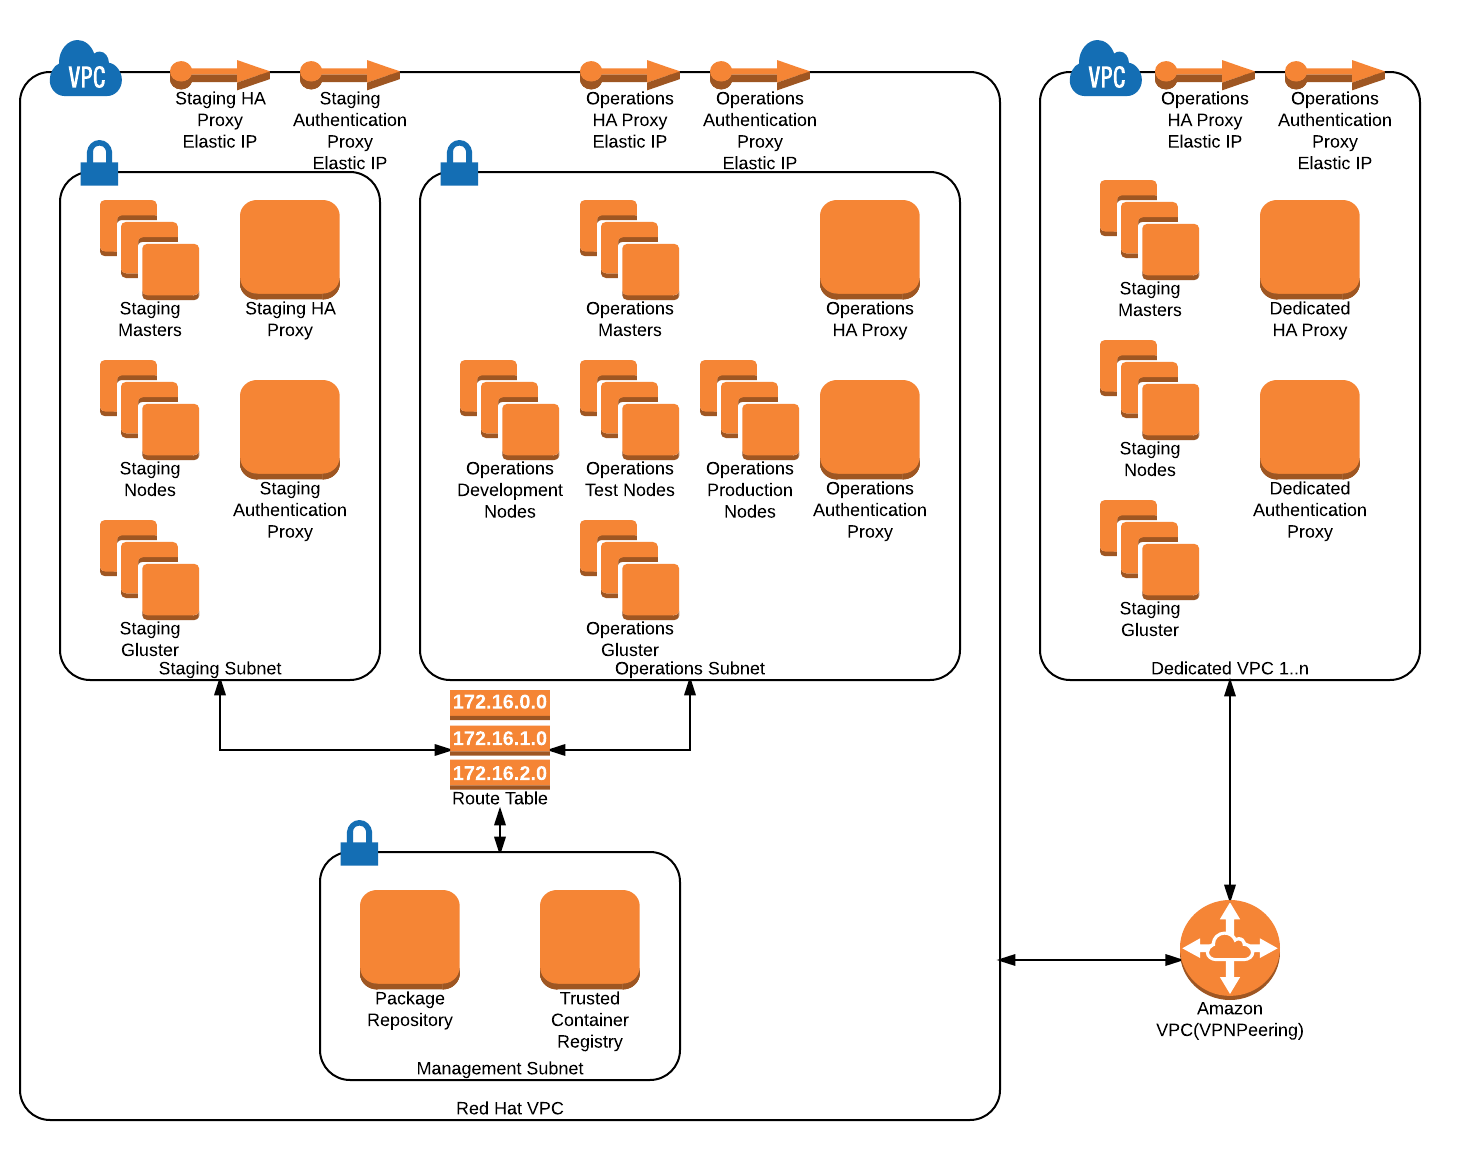
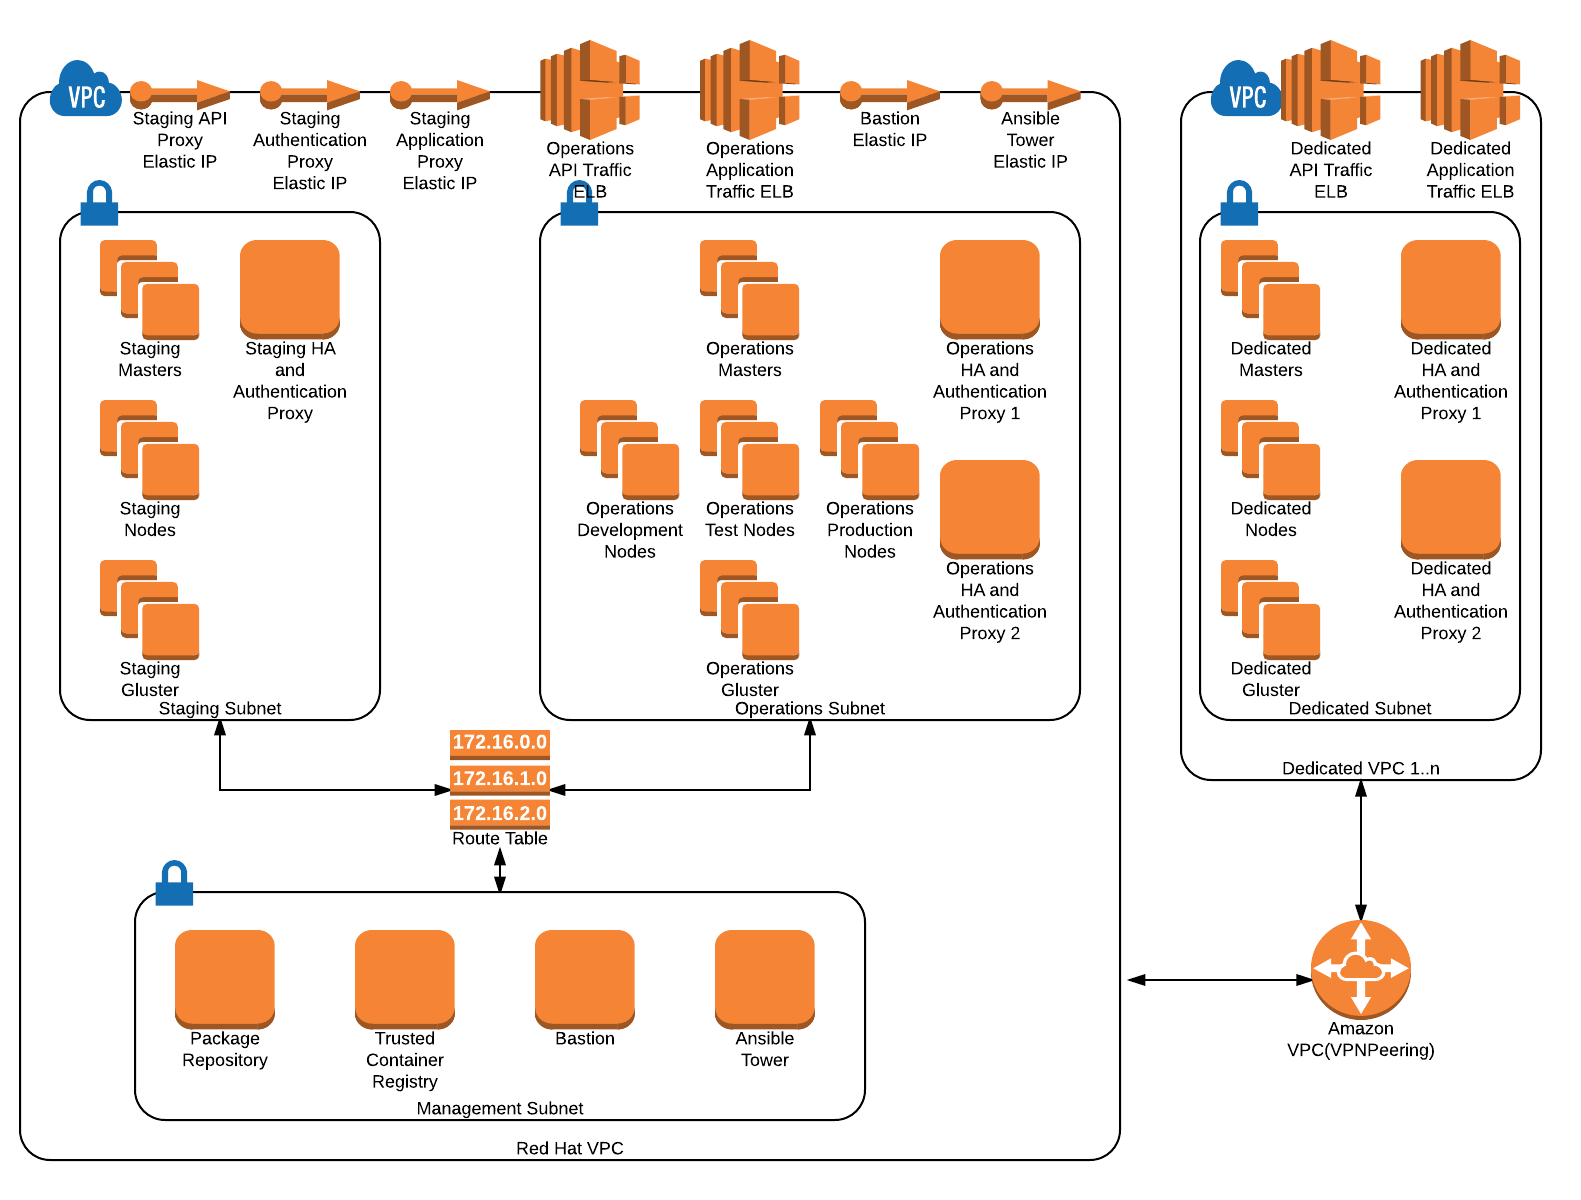
Added some platform stuff

diff --git a/reference_architecture.rst b/reference_architecture.rst
@@ -30,18 +30,19 @@ As stated prviously, the IaaS in this architecture is AWS.  Red Hat's OCP is the
 
 Infrastructure View
 -------------------
-Definition
+The infrastructure view describes the OCP components at the infrastructure level.  These components are necessary to serve OCP in AWS and achieving FISMA high.
+
+IaaS Definition - NIST 800-145
 ~~~~~~~~~~
-The NIST 800-145 defines the following as an Infrastructure as a Service:
   The capability provided to the consumer is to provision processing, storage, networks, and other fundamental computing resources where the consumer is able to deploy and run arbitrary software, which can include operating systems and applications. The consumer does not manage or control the underlying cloud infrastructure but has control over operating systems, storage, and deployed applications; and possibly limited control of select networking components (e.g., host firewalls).
 
 Description
 ~~~~~~~~~~~
 AWS provides this capability.  Amazon provides the underlying hardware infastructure that supports the self-service provisioning into the cloud of what has traditionaly been based in hardware.  This includes, but is not limited to compute, storage, and networking services.
 
-Actors
+Stakeholders
 ~~~~~~
-Platform administrators require AWS console access and the ability to deploy and/or configure the following AWS components.
+**OCP administrators** require AWS console access and the ability to deploy and/or configure the following AWS components.
 
  - VPC
  - Elastic IP
@@ -49,73 +50,143 @@ Platform administrators require AWS console access and the ability to deploy and
  - VPC Peering
  - Route Tables
 
+**Application developers** do not have a role at the infrastructure level.
+
+**Application consumers** do not have a role at the infrastructure level.
+
 Diagram
 ~~~~~~~
 The following diagram illustrates the high level deployment of OCP in AWS and the necessary AWS components to support OCP.
 |Infrastructure View|
 
+Components
+~~~~~~~~~~
 The following table describes each AWS component and relates it to the implementation in the OCP reference architecture.
++---------------+---------------------------------------------------------+------------------------+
+| AWS Component | Description                                             |  OCP Component         |
++===============+=========================================================+========================+
+| VPC           | A logically isolated section of AWS in which resources  | Red Hat VPC            |
+|               | are connected via a virtual networking environment.     +------------------------+
+|               |                                                         | 1..n Dedicated VPC's   |
++---------------+---------------------------------------------------------+------------------------+
+| Subnet        | Virtually isolated network used on which traffic        | Management Subnet      |
+|               | is isolatedbecause isolation makes for great neighbors. +------------------------+
+|               |                                                         | Staging Subnet         |
+|               |                                                         +------------------------+
+|               |                                                         | Operations Subnet      |
+|               |                                                         +------------------------+
+|               |                                                         | Dedicated Subnet       |
++---------------+---------------------------------------------------------+------------------------+
+| EC2 Compute   | A scalable compute capacity in AWS.  Compute instances  | All OCP Platform       |
+| Instance      | are instantiated from cloud images with pre-installed   | components.            |
+|               | operating systems, for example Red Hat Enterprise Linux.|                        |
++---------------+---------------------------------------------------------+------------------------+
+| Route Table   | A route table defines rules as to how network traffic   | Red Hat VPC            |
+|               | in a VPC is routed internally.                          |                        |
++---------------+---------------------------------------------------------+------------------------+
+| Elastic IP    | An Elastic IP is associated with an EC2 Instance and is | Staging HA Proxy       |
+|               | publically reacheable.                                  +------------------------+
+|               |                                                         | Staging Authentication |
+|               |                                                         +------------------------+
+|               |                                                         | Staging App. Traffic   |
+|               |                                                         +------------------------+
+|               |                                                         | Bastion                |
+|               |                                                         +------------------------+
+|               |                                                         | Ansible Tower          |
++---------------+---------------------------------------------------------+------------------------+
+| VPC Peering   | A VPC peering connection is a networking connection     | Between the Red Hat    |
+|               | between two VPCs that enables traffic to be routed      | VPC and any Dedicated  |
+|               | between them using private IP addresses.                | VPC                    |
++---------------+---------------------------------------------------------+------------------------+
+| Elastic Load  | An ELB automatically distributes traffic among EC2      | Operations API         |
+| Balancer      | instances.                                              +------------------------+
+|               |                                                         | Operations Application |
+|               |                                                         +------------------------+
+|               |                                                         | Dedicated API          |
+|               |                                                         +------------------------+
+|               |                                                         | Dedicated Application  |
++---------------+---------------------------------------------------------+------------------------+
 
-+---------------+---------------------------------------------------------+----------------------+
-| AWS Component | Description                                             |  OCP Component       |
-+===============+=========================================================+======================+
-| VPC           | A logically isolated section of AWS in which resources  | Red Hat VPC          |
-|               | are connected via a virtual networking environment.     +----------------------+
-|               |                                                         | 1..n Dedicated VPC's |
-+---------------+---------------------------------------------------------+----------------------+
-| Subnet        | Virtually isolated network used on which traffic        | Management Subnet    |
-|               | is isolatedbecause isolation makes for great neighbors. +----------------------+
-|               |                                                         | Staging Subnet       |
-|               |                                                         +----------------------+
-|               |                                                         | Operations Subnet    |
-|               |                                                         +----------------------+
-|               |                                                         | Dedicated Subnet     |
-+---------------+---------------------------------------------------------+----------------------+
-| EC2 Compute   | A scalable compute capacity in AWS.  Compute instances  | All OCP Platform     |
-| Instance      | are instantiated from cloud images with pre-installed   | components.          |
-|               | operating systems, for example Red Hat Enterprise Linux.|                      |
-+---------------+---------------------------------------------------------+----------------------+
-| Route Table   | A route table defines rules as to how network traffic   | Red Hat VPC          |
-|               | in a VPC is routed internally.                          |                      |
-+---------------+---------------------------------------------------------+----------------------+
-| Elastic IP    | An Elastic IP is associated with an EC2 Instance and is | Staging HA Proxy     |
-|               | publically reacheable.                                  +----------------------+
-|               |                                                         | Staging Auth Proxy   |
-|               |                                                         +----------------------+
-|               |                                                         | Operations HA   Proxy|
-|               |                                                         +----------------------+
-|               |                                                         | Operations Auth Proxy|
-|               |                                                         +----------------------+
-|               |                                                         | Dedicated HA Proxy   |
-|               |                                                         +----------------------+
-|               |                                                         | Dedicated Auth Proxy |
-+---------------+---------------------------------------------------------+----------------------+
-| VPC Peering   | A VPC peering connection is a networking connection     | Between the Red Hat  |
-|               | between two VPCs that enables traffic to be routed      | VPC and any Dedicated|
-|               | between them using private IP addresses.                | VPC                  |
-+---------------+---------------------------------------------------------+----------------------+
+Network Architecture
+~~~~~~~~~~~~~~~~~~~~
+The **Staging Subnet** provides an isolated area for platform administrators to apply regular patches and test configuration changes before applying these to the operations cluster.  One cluster of OCP is deployed in this VPC.
 
-Architecture Rational
-~~~~~~~~~~~~~~~~~~~~~
-The **Staging VPC** provides an isolated area for platform administrators to apply regular patches and test configuration changes before applying these to the operations cluster.  One cluster of OCP is deployed in this VPC.
+The **Operations Subnet** contains a single deployment of OpenShift where tenants will deploy applications.  OCP Nodes will be labled and functionally grouped to support development, test, and production deployments of an application.  This is described in detail in the *Platform View*.
 
-The **Operations VPC** contains a single deployment of OpenShift where tenants will deploy applications.  OCP Nodes will be labled and functionally grouped to support development, test, and production deployments of an application.  This is described in detail in the *Platform View*.
-
-The **Management VPC** contains the Trusted Container Repository as well as the Package Repository.  A route table allows the **Managent VPC** to communicate to the **Staging VPC**, **Operations VPC**, and any **Dedicated VPC's**.  However, the latter three VPC's cannot communicate with each other.
+The **Management Subnet** contains the Trusted Container Repository as well as the Package Repository.  A route table allows the **Managent Subnet** to communicate to the **Staging Subnet**, **Operations Subnet**.  The **Staging Subnet** and **Operations Subnet** are not permitted to communicate with each other. A VPC peering connection allows the **Management Subnet** in the **Red Hat VPC** to communicate with any **Dedicated VPC's**.
 
 **Dedicated VPC's** are VPC's that are deployed to support specific isolation needs of a particular tenant.  These may be created and destroyed per organizational needs.
 
+The **bastion host** allows OCP Administrators and only OCP Administrators the ability to access the underlying hosts in each VPC.
+
+**Application Developers** interact with OCP via a command line interface (CLI) and web user interface (WebUI).  An application router, internal to OCP, handles application traffic.  Therefore certain ports in a security group must be exposed on the **Red Hat VPC** to allow ths traffic.  The same is true of any **Dedicated VPC's**.  The following table details this information.
+
++----------+---------------------+-------------------------------------------+
+| VPC Port | VPC/Subnet          | Exposed Component                         |
++==========+=====================+===========================================+
+| 443/TCP  | Red Hat/Operations  | ELB - API Traffic                         |
++          +                     +-------------------------------------------+
+|          |                     | ELB - Application Traffic                 |
++          +---------------------+-------------------------------------------+
+|          | Red Hat/Staging     | Elastic IP - API HA Proxy                 |
++          +                     +-------------------------------------------+
+|          |                     | Elastic IP - Application Traffic          |
++          +---------------------+-------------------------------------------+
+|          | Red Hat/Management  | Elastic IP - Ansible Tower                |
++          +---------------------+-------------------------------------------+
+|          | Dedicated/Dedicated | ELB - API Traffic                         |
++          +                     +-------------------------------------------+
+|          |                     | ELB - Application Traffic                 |
++----------+---------------------+-------------------------------------------+
+| 4444/TCP | Red Hat/Operations  | ELB - API Traffic - Authentication        |
++          +---------------------+-------------------------------------------+
+|          | Red Hat/Staging     | Elastic IP - API Traffic - Authentication |
++          +---------------------+-------------------------------------------+
+|          | Dedicated/Dedicated | ELB - API Traffic - Authentication        |
++----------+---------------------+-------------------------------------------+
+| 22/TCP   | Red Hat/Management  | Elastic IP - SSH Bastion                  |
++----------+---------------------+-------------------------------------------+
+
 Platform View
 -------------
-Definition
+The platform view describes the OCP architecture at the platform level.  This view abastracts out the AWS components and focuses primarily on the functional components of OCP.
+
+PaaS Definition - NIST 800-145
 ~~~~~~~~~~
+  The capability provided to the consumer is to deploy onto the cloud infrastructure consumer-created or acquired applications created using programming languages, libraries, services, and tools supported by the provider.  The consumer does not manage or control the underlying cloud infrastructure including network, servers, operating systems, or storage, but has control over the deployed applications and possibly configuration settings for the application-hosting environment.
+
 Description
 ~~~~~~~~~~~
-Actors
-~~~~~~
+The OpenShift Container Platform provides application developer's the ability to rappidly deploy applications in a variety of application frameworks.
+
+Stakeholders
+~~~~~~~~~~~~
+**OCP Administrators** are responsible for the operations and proper function of the platform.  They have the ability to affect OCP security policies surrounding developer interaction and container function.
+
+**Application Developers** have access to the OCP WebUI and CLI to deploy applications.
+
+**Application Users** do not have a role at the platform level.
+
 Diagram
 ~~~~~~~
-Architecture Rational
+The following diagram details the minimum highly-available configuration of OCP to meet FISMA high at the platform level.
+|Platform View|
+
+Components
+~~~~~~~~~~
++---------------------+-------------------------------------------------------------------------------------------------------------------------------------------------------------------------------------------------------------------------------------------------------------------------------------------------------------------+
+| Component           | Description                                                                                                                                                                                                                                                                                                       |
++---------------------+-------------------------------------------------------------------------------------------------------------------------------------------------------------------------------------------------------------------------------------------------------------------------------------------------------------------+
+| Master              | The OCP Master provides the API and WebUI entry points for Application Developers and OCP administrators. The OCP Master is also responsible for scheduling containers on each node.                                                                                                                              |
++---------------------+-------------------------------------------------------------------------------------------------------------------------------------------------------------------------------------------------------------------------------------------------------------------------------------------------------------------+
+| ETCD                | The ETCD servers are key-value stores used for maintaining information about the state of the OCP cluster.                                                                                                                                                                                                        |
++---------------------+-------------------------------------------------------------------------------------------------------------------------------------------------------------------------------------------------------------------------------------------------------------------------------------------------------------------+
+| Application Node    | The Application Nodes handle executing application containers.                                                                                                                                                                                                                                                    |
++---------------------+-------------------------------------------------------------------------------------------------------------------------------------------------------------------------------------------------------------------------------------------------------------------------------------------------------------------+
+| Infrastructure Node | In an OCP cluster, a containerized HA proxy routes application traffic.  A containerized integrated container registry in OCP is a mechanism in the automated build and deployment flow.  Both the application router and integrated container registry and only these components run on the Infrastructure Node. |
++---------------------+-------------------------------------------------------------------------------------------------------------------------------------------------------------------------------------------------------------------------------------------------------------------------------------------------------------------+
+
+Network Architecture
 ~~~~~~~~~~~~~~~~~~~~~
 
 Application View
@@ -149,3 +220,4 @@ Architecture Rational
 .. _NIST 800-53: https://web.nvd.nist.gov/view/800-53/home
 
 .. |Infrastructure View| image:: /images/architecture/InfrastructureView.png
+.. |Platform View| image:: /images/architecture/PlatformView.png
